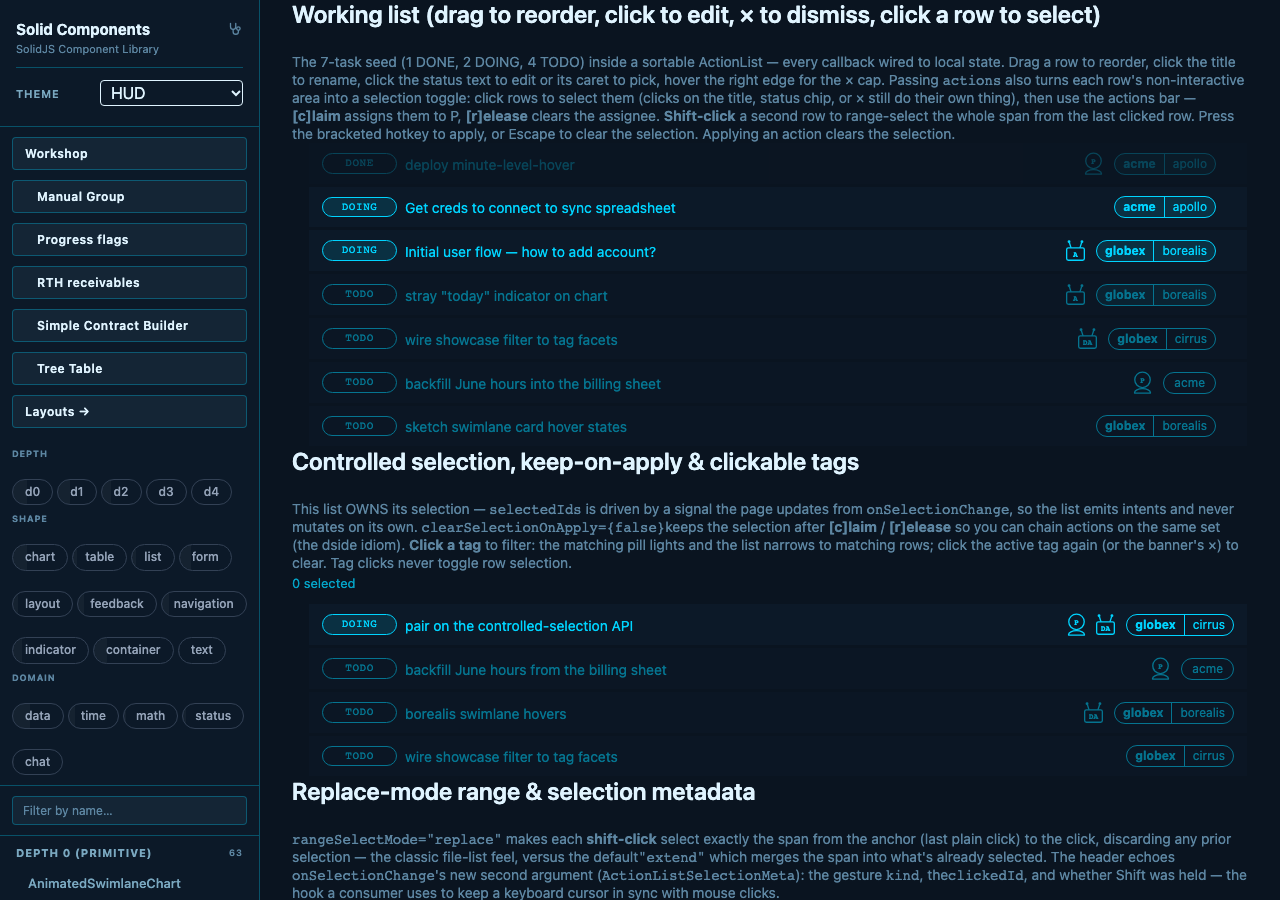
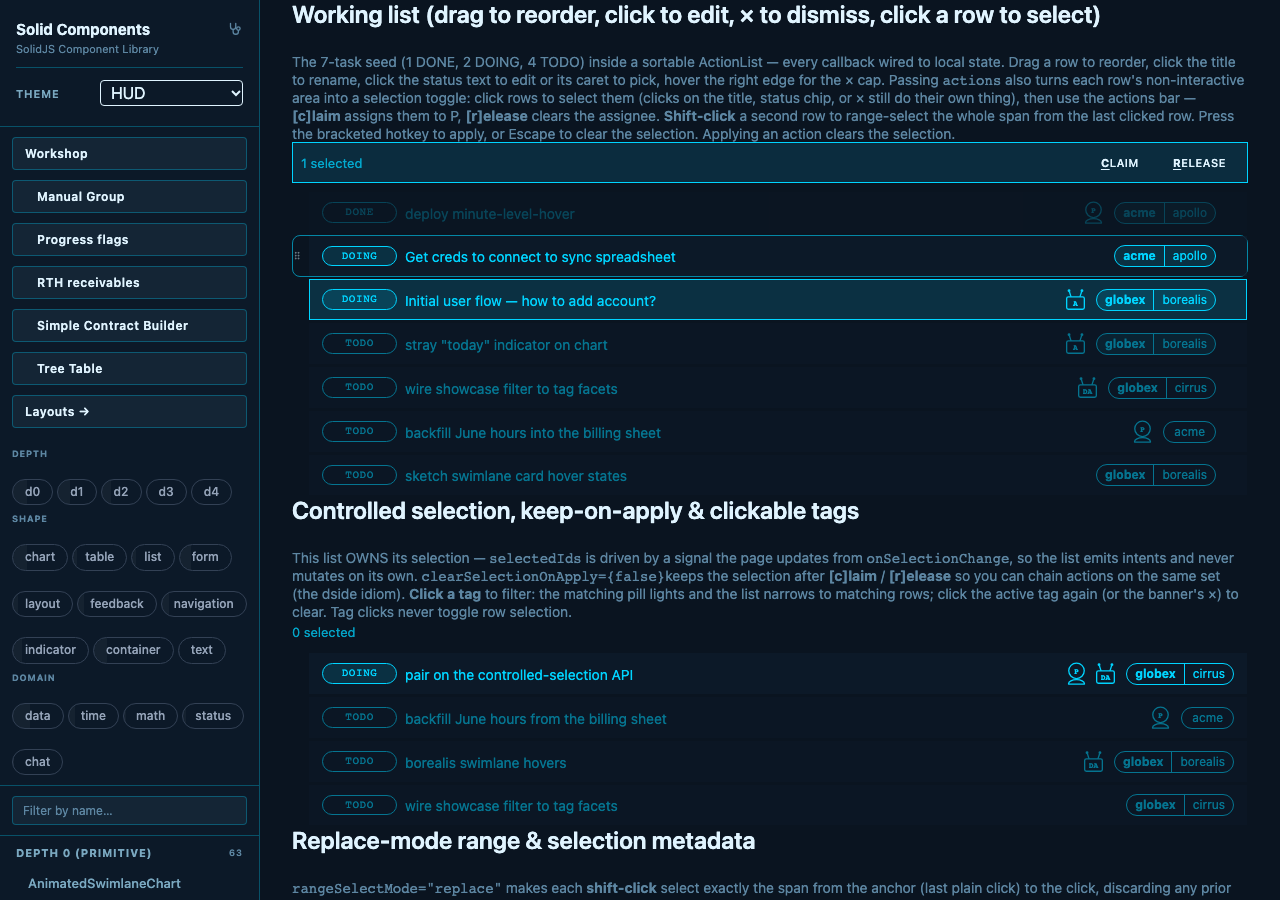
docs(handoffs): theme-density audit — verify consumer themes, jtf link, SectionedList, re-shoot ActionList selected
Claude-Session: https://claude.ai/code/session_01NsB6mJ76vi5LCmAhZPbCxN

Changed region(s): [[0.2188, 0.1556, 1.0, 1.0]]

diff --git a/docs/handoffs/theme-density/AUDIT.md b/docs/handoffs/theme-density/AUDIT.md
@@ -18,8 +18,10 @@ Evidence: `shots/`, `metrics-before.json`, `metrics-after.json`, `dense-overlay.
 2. **Two JS constants mirror CSS and tokens cannot reach them:**
    `BucketQueue.tsx:47 const GAP = 8` (water-fill math) and
    `BucketQueue/layout.ts:15 const BORDERS = 2`. With CSS gap 0 a `fill` queue ends
-   **9px short** (measured: slack 0 -> 9 on the fill demo, `fillprobe` run). This is
-   also a latent bug in today's `density="compact"`: CSS gap 4px, JS still subtracts 8.
+   **9px short** (measured on the fill demo: slack 0 -> 9). Eight px are the `GAP`
+   constant; one px is the overlay's own `margin-top: -1px` shared-divider overlap. By reading
+   the code (not measured), the same mismatch exists in today's `density="compact"`:
+   CSS gap 4px, JS still subtracts 8.
 3. **28px is taller than today's compact.** Canon header 28px vs
    `CompactBucketQueue` header 21px / row 21px. Dense default rows measure 27px.
    So the default will *not* subsume the side-pane compact; see Q2.
@@ -28,16 +30,21 @@ Evidence: `shots/`, `metrics-before.json`, `metrics-after.json`, `dense-overlay.
 5. **`CountChip` header is a TSX change, not a token** (`BucketHeader.tsx`). The overlay
    only approximates it with a pill on `.bucket-queue__count`.
 6. **No consumer uses `CompactBucketQueue` or `BucketQueue density=`.** Deprecating them is free.
-7. **`--sui-space-sm/md/xs` are undefined everywhere.** 8 sites use them with a literal
-   fallback, so they always render the fallback (e.g. `ActionListItem.css:19`). Not
-   a density token; do not mistake it for one.
+7. **`--sui-space-sm/md/xs` are never declared** (fixed-string grep over SUI `src/` and
+   `dev/` and the six consumers' `src/`: no declaration). 8 SUI sites use them with a
+   literal fallback, so they always render the fallback (e.g. `ActionListItem.css:19`).
+   Not a density token; do not mistake it for one.
 
 ### Questions for Peter (one at a time)
 
 - **Q1 — what is "the default theme"?** Three readings: theme id `default`, the loader
-  default (`src/themes/loader.ts:12`, = `hud`), or every theme. **Recommend declare the
-  dense values in `default.css` and `hud.css` only**; `bronze/stax/colorblind` keep
-  today's look (thorcasting, jtf and dside run stax a lot: 8/21/15 refs). Screenshots
+  default (`src/themes/loader.ts:12`, = `hud`), or every theme. Verified defaults:
+  goose `default`; dside and notecards statically import `default.css`; diddit, jtf
+  (unless `VITE_DEFAULT_THEME`) and thorcasting land on `hud`. So **declaring dense
+  values in `default.css` + `hud.css` changes the out-of-the-box look of all six
+  consumers**, and only users who pick `stax`, `bronze*` or `colorblind` stay as today.
+  **Recommend `default.css` + `hud.css` only.** Also part of Q1: does the `CountChip`
+  header apply to every theme (it is a component change) or only these two. Screenshots
   are hud, as asked.
 - **Q2 — does side-pane compact survive?** If 28px header / 27px row is acceptable at
   200px wide, compact is redundant and can be deprecated. If not, `compact` stays as the
@@ -141,12 +148,17 @@ plus `dense-overlay.css` injected. Re-run:
 |---|---|---|---|
 | BucketQueue (`#/bucket-queue`) | `shots/BucketQueue-before.png` | `shots/BucketQueue-after.png` | gap 8->0, header 31.5->28, row 31->27, bucket 96->84, side borders gone |
 | CompactBucketQueue (same page) | `shots/CompactBucketQueue-before.png` | `shots/CompactBucketQueue-after.png` | gap 4->0 only; header 21->28 and 65->72 are an **overlay artifact** (min-height 28 also hits compact) |
-| ActionList (`#/action-list`) | `shots/ActionList-before.png` | `shots/ActionList-after.png` | item 41->32, list gap 1->0, radius 0, 4px bar |
-| GroupedBucketQueue (`#/grouped-bucket-queue`) — the SectionedList replacement (SectionedList removed 0.221.0; BucketQueue is the owner's direction) | `shots/GroupedBucketQueue-before.png` | `shots/GroupedBucketQueue-after.png` | header 31->28, row 31->27 |
+| ActionList (`#/action-list`, 3rd row selected) | `shots/ActionList-before.png` | `shots/ActionList-after.png` | item 41->32, list gap 1->0, selected = 4px left bar instead of a bordered box. Radius is already 0 in hud, so it is not a change here (it would be in `default`, 8px). The actions bar above the list stays a rounded bordered box: `ActionList.css:18-20` is a further rule to move |
+| GroupedBucketQueue (`#/grouped-bucket-queue`) — nested sibling of BucketQueue | `shots/GroupedBucketQueue-before.png` | `shots/GroupedBucketQueue-after.png` | header 31->28, row 31->27 |
 | CollapsiblePanel (`#/app-shell`) | `shots/CollapsiblePanel-before.png` | `shots/CollapsiblePanel-after.png` | near-identical: it has no list/gap density, only a tab and a strip |
 | ThreePanelLayout (`#/three-panel-layout`) | `shots/ThreePanelLayout-before.png` | `shots/ThreePanelLayout-after.png` | top bar 40->32; aside pad/gap 8->0; center 16->12 |
 | Modal (`#/hud-modal`, first button) | `shots/Modal-before.png` | `shots/Modal-after.png` | header 66->54, body 58->50 |
 | DataTable = BaseTable (`#/base-table`) | `shots/DataTable-before.png` | `shots/DataTable-after.png` | head cell 37.5->29.5, cell 47->29 |
+
+**SectionedList's replacement is `BucketQueue`**: CHANGELOG 0.221.0 removed
+`SectionedList`/`CompactSectionedList` ("the owner chose to keep `BucketQueue` for the
+side pane instead"), so the BucketQueue and CompactBucketQueue rows above are the
+SectionedList evidence. `GroupedBucketQueue` is included as the nested variant.
 
 Headless numbers for every probe: `metrics-before.json` vs `metrics-after.json`.
 
@@ -162,17 +174,18 @@ Headless numbers for every probe: `metrics-before.json` vs `metrics-after.json`.
 Version pins (from each `package.json`). Caret on `0.x` allows patch only
 (`^0.216.0` = `>=0.216.0 <0.217.0`), so **only a deliberate bump moves a consumer**,
 except the live link and the branch ref. Usage counts are non-test source lines
-mentioning the component (indicative, includes imports).
+mentioning the component (indicative, includes imports). **jtf is the one consumer hit
+with no version bump at all.**
 
-| Consumer | Pin | Moves when | Themes seen | Affected usage |
+| Consumer | Pin | Moves when | Default theme (verified) | Affected usage |
 |---|---|---|---|---|
-| `goose/goose-ui` | exact 0.152.0 | explicit bump | default (8) | tables 38 (6 `compact`), Section 5 |
-| `diddit/diddit-ui` | exact 0.152.0 | explicit bump | hud 8, bronze 7, default 2 | ActionList 8, List 3, ThreePanelLayout 2, Modal 2 |
-| `thorcasting/thorcasting-ui` | ^0.216.0 | bump past 0.216.x | default 36, stax 8 | **BucketQueue 45**, Modal 14, Panel 16, Section 10, tables 9, ThreePanelLayout 7, `compact` 7. Its `density=` is its own prop, not SUI's |
-| `jtf/jtf-ui` | `link:../solid-ui-components` | **live, on next SUI build** | stax 21, default 18, hud 5 | tables 22, ThreePanelLayout 13, Modal 13, Panel 10, BucketQueue 9 |
-| `dside/dside-ui` | ^0.104.0 (work: ^0.57.0) | bump (far behind) | default 19, stax 15 | **ActionList 30**, CollapsiblePanel 7, Modal 4 |
-| `notecards/notecards-ui` | github branch `fix/button-tone-specificity` | **floats with the branch**, not a release | hud | Modal 3, tables 4 (2 `compact`) |
-| `jtf-rth/jtf-rth-ui` (not in brief) | ^0.151.0 | bump | default/hud/bronze | tables 40 (18 `compact`), Section 22 |
+| `goose/goose-ui` | exact 0.152.0 | explicit bump | `default` (`lib/theme.ts` `DEFAULT`); curated default/hud/stax | tables 38 (6 `compact`), Section 5 |
+| `diddit/diddit-ui` | exact 0.152.0 | explicit bump | SUI loader default = `hud` (`getPersistedTheme()`, nothing persisted) | ActionList 8, List 3, ThreePanelLayout 2, Modal 2 |
+| `thorcasting/thorcasting-ui` | ^0.216.0 | bump past 0.216.x | static `hud.css` + `colorblind.css` (`app.tsx:29-30`) | **BucketQueue 45**, Modal 14, Panel 16, Section 10, tables 9, ThreePanelLayout 7, `compact` 7. Its `density=` is its own prop, not SUI's |
+| `jtf/jtf-ui` | `link:../solid-ui-components` -> symlink `jtf/solid-ui-components` -> `../platform/solid-ui-components`, i.e. **the shared SUI checkout** | **no version bump needed**: as soon as that checkout holds the change and is rebuilt (`dist/`) | persisted, else `VITE_DEFAULT_THEME`, else `hud` (`stores/theme.ts`); curated hud/stax | tables 22, ThreePanelLayout 13, Modal 13, Panel 10, BucketQueue 9 |
+| `dside/dside-ui` | ^0.104.0 (work: ^0.57.0) | bump (far behind) | static `default.css` (`app.tsx:2`) then runtime swap (`lib/themePref.ts`) | **ActionList 30**, CollapsiblePanel 7, Modal 4 |
+| `notecards/notecards-ui` | github branch `fix/button-tone-specificity` | next reinstall that re-resolves the branch (the lockfile pins a commit until then); not a release | static `default.css` (`app.tsx:6`); `loadTheme("hud")` on the proto shell | Modal 3, tables 4 (2 `compact`) |
+| `jtf-rth/jtf-rth-ui` (not in brief) | ^0.151.0 | bump | not checked | tables 40 (18 `compact`), Section 22 |
 
 Expect visible change on upgrade in: ActionList row height and shape (dside, diddit),
 every table's row height (goose, jtf, jtf-rth, thorcasting, notecards), ThreePanelLayout
@@ -195,14 +208,14 @@ theme that omits them is untouched; the dense values switch on per theme.
 
 1. **Add (one PR, one minor release, safe to abandon)**
    - 1a. Zero-visual-change plumbing: JS `GAP`/`BORDERS` read from the DOM; every rule in
-     §2 becomes `var(--sui-dense-*, <legacy>)`; `CountChip` in bucket/grouped headers
-     behind the existing look (additive, so counts look like chips everywhere; confirm in
-     Q1 whether chips are also theme-gated). Add layout test with gap 0 (fill queue
+     §2 becomes `var(--sui-dense-*, <legacy>)`. Add layout test with gap 0 (fill queue
      fills exactly). Document tokens as an optional group in `themes/README.md` and
      `COMPONENTS.md`; run `npm run health`, `test`, `typecheck`, `build`,
      `bundle-budget` and re-baseline only what improves.
-   - 1b. `default.css` + `hud.css` declare the dense values. This is the only visible
-     change; the PR carries these before/after pairs (re-shot from the real code, not the
+   - 1b. `default.css` + `hud.css` declare the dense values, and the bucket/grouped
+     headers swap the bare count for `CountChip` (a visible component change; per Q1
+     either for every theme or gated by a dense token). These are the only visible
+     changes; the PR carries these before/after pairs (re-shot from the real code, not the
      overlay), plus consumer notes from §4.
 2. **Deprecate (per consumer, at their own pace)** — mark `density="compact"`,
    `CompactBucketQueue`, and `compact` on Table/List/Section `@deprecated` in types,
